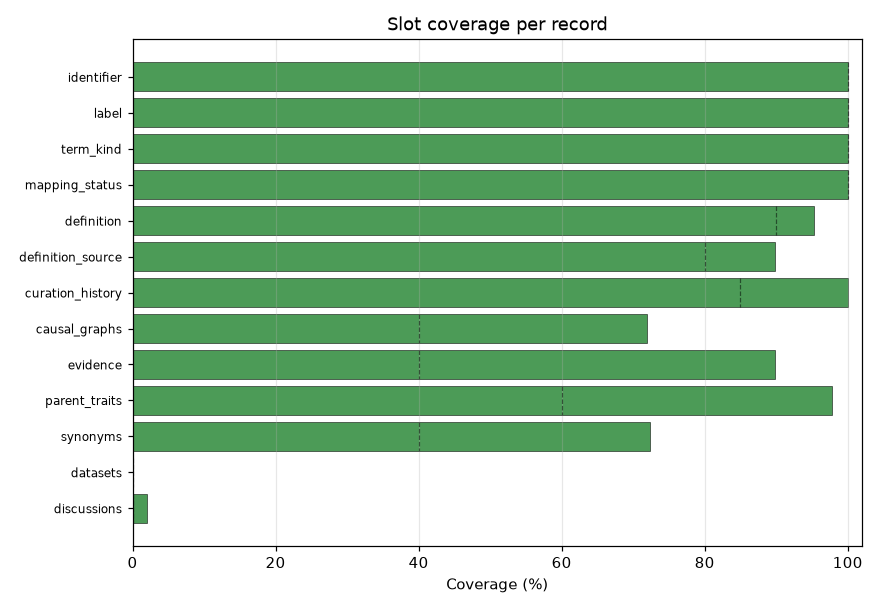
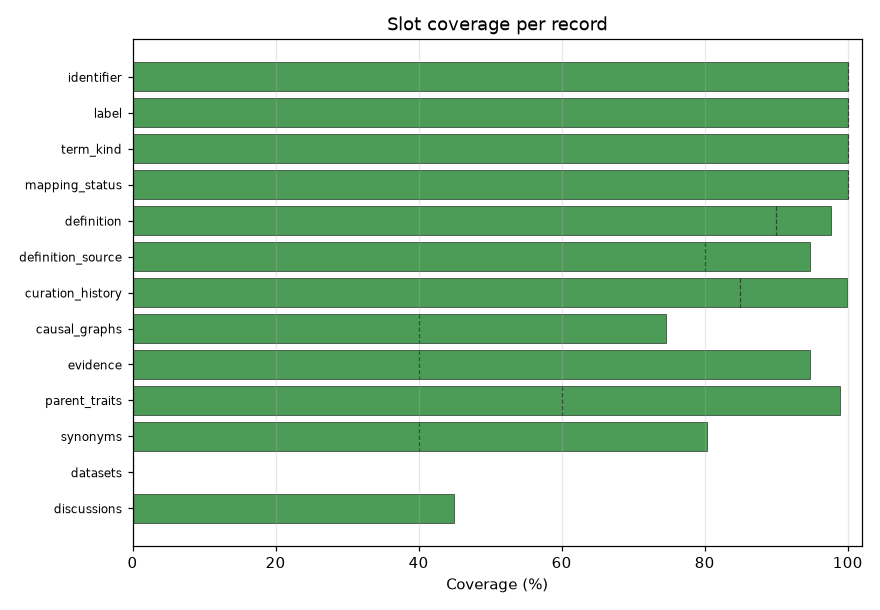
fix(web): refresh shared discussion and QC navigation

diff --git a/app/discussions/index.html b/app/discussions/index.html
@@ -11,7 +11,8 @@
   header { padding: 1rem 1.25rem; border-bottom: 1px solid var(--line); }
   h1 { font-size: 1.25rem; margin: 0 0 .25rem; }
   .metrics { color: var(--muted); font-size: .85rem; }
-  .layout { display: grid; grid-template-columns: 240px 1fr; gap: 1.25rem; max-width: 1200px; margin: 1rem auto; padding: 0 1.25rem; }
+  .layout { display: grid; grid-template-columns: 240px minmax(0, 1fr); gap: 1.25rem; max-width: 1200px; margin: 1rem auto; padding: 0 1.25rem; }
+  main, .sidebar { min-width: 0; overflow-wrap: anywhere; }
   @media (max-width: 820px) { .layout { grid-template-columns: 1fr; } }
   .sidebar h3 { font-size: .8rem; text-transform: uppercase; color: var(--muted); margin: 1rem 0 .35rem; }
   .facet label { display: block; font-size: .85rem; padding: .1rem 0; cursor: pointer; }
@@ -27,40 +28,75 @@
   a { color: var(--accent); text-decoration: none; }
   a:hover { text-decoration: underline; }
   .empty { color: var(--muted); padding: 2rem; text-align: center; }
+  button { font: inherit; padding: .4rem .6rem; cursor: pointer; }
+  a:focus-visible, button:focus-visible, input:focus-visible { outline: 3px solid #0969da; outline-offset: 3px; }
+  .skip-link { position: absolute; top: -5rem; left: 1rem; background: var(--bg); padding: .6rem; }
+  .skip-link:focus { top: .5rem; }
 </style>
 </head>
 <body>
+<a class="skip-link" href="#main-content">Skip to discussions</a>
 <header>
+  <nav aria-label="Project navigation"><a href="https://culturebotai.github.io/mechs/">All Mech projects</a></nav>
   <h1 id="title">Knowledge gaps &amp; discussions</h1>
   <div class="metrics" id="metrics"></div>
 </header>
 <div class="layout">
   <div class="sidebar">
-    <input id="q" type="search" placeholder="Search prompts, sources, evidence…" autocomplete="off">
+    <label for="q">Search discussions</label>
+    <input id="q" type="search" placeholder="Search prompts, sources, evidence…" autocomplete="off" disabled>
+    <button type="button" id="clear-filters" disabled>Clear search and filters</button>
     <div id="facets"></div>
   </div>
-  <main>
-    <div class="count" id="count"></div>
+  <main id="main-content" tabindex="-1">
+    <noscript>Enable JavaScript to search discussions, or use the project directory to find the source records.</noscript>
+    <div class="count" id="count" role="status" aria-live="polite" aria-atomic="true">Loading discussions…</div>
     <div id="results"></div>
   </main>
 </div>
 <script src="data.js"></script>
 <script>
 (function () {
-  var DATA = window.searchData || [];
-  var METRICS = window.searchMetrics || {};
+  function loadError() {
+    document.getElementById("count").textContent = "Discussions could not be loaded.";
+    document.getElementById("metrics").textContent = "Discussion counts unavailable";
+    document.getElementById("q").disabled = true;
+    document.getElementById("clear-filters").disabled = true;
+    document.getElementById("facets").replaceChildren();
+    var host = document.getElementById("results");
+    host.replaceChildren();
+    var retry = document.createElement("button");
+    retry.type = "button";
+    retry.textContent = "Retry loading discussions";
+    retry.addEventListener("click", function () { window.location.reload(); });
+    host.appendChild(retry);
+  }
+  if (!Array.isArray(window.searchData) || !window.searchData.every(function (row) {
+    return row && typeof row === "object" && !Array.isArray(row) &&
+      ["attaches_to", "evidence_refs"].every(function (field) {
+        return row[field] == null || (Array.isArray(row[field]) && row[field].every(function (value) { return typeof value === "string"; }));
+      });
+  })) { loadError(); return; }
+  var DATA = window.searchData;
+  var METRICS = window.searchMetrics;
+  if (!METRICS || !["total_discussions", "total_knowledge_gaps", "total_source_entries"].every(function (field) {
+    return Number.isInteger(METRICS[field]) && METRICS[field] >= 0;
+  }) || METRICS.total_discussions !== DATA.length ||
+      METRICS.total_knowledge_gaps !== DATA.filter(function (row) { return row.is_gap === "Knowledge gap"; }).length ||
+      METRICS.total_source_entries > DATA.length ||
+      (DATA.length > 0 && METRICS.total_source_entries === 0)) { loadError(); return; }
   var REPO = window.repoName || "";
   var FACETS = ["kind", "status", "is_gap"];
   var active = {}; FACETS.forEach(function (f) { active[f] = new Set(); });
 
   document.getElementById("title").textContent = (REPO ? REPO + " — " : "") + "Knowledge gaps & discussions";
   document.getElementById("metrics").textContent =
-    (METRICS.total_discussions || 0) + " discussions · " +
-    (METRICS.total_knowledge_gaps || 0) + " knowledge gaps · " +
-    (METRICS.total_source_entries || 0) + " records";
+    METRICS.total_discussions + " discussions · " +
+    METRICS.total_knowledge_gaps + " knowledge gaps · " +
+    METRICS.total_source_entries + " records";
 
   function uniqCounts(field) {
-    var m = {}; DATA.forEach(function (r) { var v = r[field] || "—"; m[v] = (m[v] || 0) + 1; });
+    var m = Object.create(null); DATA.forEach(function (r) { var v = r[field] || "—"; m[v] = (m[v] || 0) + 1; });
     return m;
   }
   function renderFacets() {
@@ -70,10 +106,13 @@
       var h = document.createElement("div"); h.className = "facet";
       h.innerHTML = "<h3>" + f.replace("_", " ") + "</h3>";
       Object.keys(counts).sort().forEach(function (val) {
-        var id = f + "::" + val;
         var lbl = document.createElement("label");
-        lbl.innerHTML = '<input type="checkbox" data-f="' + f + '" data-v="' +
-          val.replace(/"/g, "&quot;") + '"> ' + val + " (" + counts[val] + ")";
+        var input = document.createElement("input");
+        input.type = "checkbox";
+        input.setAttribute("data-f", f);
+        input.setAttribute("data-v", val);
+        lbl.appendChild(input);
+        lbl.appendChild(document.createTextNode(" " + val + " (" + counts[val] + ")"));
         h.appendChild(lbl);
       });
       host.appendChild(h);
@@ -94,9 +133,13 @@
       .join(" ").toLowerCase();
     return q.toLowerCase().split(/\s+/).every(function (t) { return hay.indexOf(t) >= 0; });
   }
-  function esc(s) { return (s || "").replace(/&/g, "&amp;").replace(/</g, "&lt;").replace(/>/g, "&gt;"); }
+  function esc(s) { return String(s || "").replace(/&/g, "&amp;").replace(/</g, "&lt;").replace(/>/g, "&gt;").replace(/"/g, "&quot;").replace(/'/g, "&#39;"); }
+  function safeLink(value) {
+    try { return ["https:", "http:"].includes(new URL(value, document.baseURI).protocol); }
+    catch (error) { return false; }
+  }
   function card(r) {
-    var title = r.page_url ? '<a href="' + esc(r.page_url) + '">' + esc(r.prompt) + "</a>" : esc(r.prompt);
+    var title = r.page_url && safeLink(r.page_url) ? '<a href="' + esc(r.page_url) + '">' + esc(r.prompt) + "</a>" : esc(r.prompt);
     var refs = (r.evidence_refs || []).map(function (ref) {
       var m = /^PMID:(\d+)$/.exec(ref);
       return m ? '<a href="https://pubmed.ncbi.nlm.nih.gov/' + m[1] + '/">' + esc(ref) + "</a>" : esc(ref);
@@ -120,7 +163,18 @@
       hits.length ? hits.map(card).join("") : '<div class="empty">No discussions match.</div>';
   }
   document.getElementById("q").addEventListener("input", render);
-  renderFacets(); render();
+  document.getElementById("clear-filters").addEventListener("click", function () {
+    document.getElementById("q").value = "";
+    FACETS.forEach(function (field) { active[field].clear(); });
+    document.querySelectorAll('#facets input[type="checkbox"]').forEach(function (input) { input.checked = false; });
+    render();
+    document.getElementById("q").focus();
+  });
+  try {
+    renderFacets(); render();
+    document.getElementById("q").disabled = false;
+    document.getElementById("clear-filters").disabled = false;
+  } catch (error) { loadError(); }
 })();
 </script>
 </body>

diff --git a/dashboard/index.html b/dashboard/index.html
@@ -2,14 +2,17 @@
 <html lang="en">
 <head>
 <meta charset="utf-8">
+<meta name="viewport" content="width=device-width, initial-scale=1">
 <title>TraitMech — QC Dashboard</title>
 <style>
   body { font-family: -apple-system, BlinkMacSystemFont, 'Segoe UI', sans-serif;
          margin: 2em; color: #222; max-width: 1100px; }
   h1 { border-bottom: 2px solid #ddd; padding-bottom: 0.3em; }
   .meta { color: #666; font-size: 0.9em; margin-bottom: 1.5em; }
-  .stat-grid { display: flex; gap: 1.5em; margin: 1em 0 2em 0; }
-  .stat { flex: 1; padding: 1em; border-radius: 6px; background: #f6f8fa;
+  * { box-sizing: border-box; }
+  body { overflow-wrap: anywhere; }
+  .stat-grid { display: flex; flex-wrap: wrap; gap: 1.5em; margin: 1em 0 2em 0; }
+  .stat { flex: 1 1 12em; min-width: 0; padding: 1em; border-radius: 6px; background: #f6f8fa;
           border: 1px solid #d0d7de; }
   .stat .label { color: #666; font-size: 0.85em; text-transform: uppercase;
                  letter-spacing: 0.05em; }
@@ -30,19 +33,27 @@
   .badge.fail { background: #ffebe9; color: #cf222e; }
   img { max-width: 100%; margin-top: 1em; border: 1px solid #e5e7eb;
         border-radius: 4px; }
+  .table-scroll { max-width: 100%; overflow-x: auto; }
+  .table-scroll table { min-width: 36em; }
+  a:focus-visible, .table-scroll:focus-visible { outline: 3px solid #0969da; outline-offset: 3px; }
+  .skip-link { position: absolute; top: -5em; left: 1em; background: white; padding: .6em; }
+  .skip-link:focus { top: .5em; }
+  @media (max-width: 40em) { body { margin: 1em; } }
 </style>
 </head>
 <body>
-
+<a class="skip-link" href="#main-content">Skip to dashboard</a>
+<nav aria-label="Project navigation"><a href="https://culturebotai.github.io/mechs/">All Mech projects</a></nav>
+<main id="main-content" tabindex="-1">
 <h1>TraitMech — QC Dashboard</h1>
-<div class="meta">Latest curation 2026-09-08T03:30:00+00:00
-  (from 491 of
-  491 records)</div>
+<div class="meta">Latest curation 2026-10-03T05:46:02+00:00
+  (from 959 of
+  960 records)</div>
 
 <div class="stat-grid">
   <div class="stat">
     <div class="label">Records</div>
-    <div class="value">491</div>
+    <div class="value">960</div>
   </div>
   <div class="stat">
     <div class="label">Slots tracked</div>
@@ -50,7 +61,7 @@
   </div>
   <div class="stat">
     <div class="label">Overall coverage</div>
-    <div class="value">78.4%</div>
+    <div class="value">83.5%</div>
   </div>
   <div class="stat">
     <div class="label">FAIL slots</div>
@@ -63,20 +74,22 @@
 <img src="coverage.png" alt="Slot coverage chart">
 
 <h2>Per-slot detail</h2>
+<div class="table-scroll" role="region" tabindex="0" aria-label="Per-slot coverage">
 <table>
+  <caption>Slot population, coverage and quality thresholds</caption>
   <thead>
     <tr>
-      <th>Slot</th>
-      <th class="right">Populated</th>
-      <th class="right">Coverage</th>
-      <th class="right">Threshold</th>
-      <th>Status</th>
+      <th scope="col">Slot</th>
+      <th scope="col" class="right">Populated</th>
+      <th scope="col" class="right">Coverage</th>
+      <th scope="col" class="right">Threshold</th>
+      <th scope="col">Status</th>
     </tr>
   </thead>
   <tbody>
     <tr>
       <td><code>identifier</code></td>
-      <td class="right">491 / 491</td>
+      <td class="right">960 / 960</td>
       <td class="right">100.0%</td>
       <td class="right">100%</td>
       <td>
@@ -85,7 +98,7 @@
     </tr>
     <tr>
       <td><code>label</code></td>
-      <td class="right">491 / 491</td>
+      <td class="right">960 / 960</td>
       <td class="right">100.0%</td>
       <td class="right">100%</td>
       <td>
@@ -94,7 +107,7 @@
     </tr>
     <tr>
       <td><code>term_kind</code></td>
-      <td class="right">491 / 491</td>
+      <td class="right">960 / 960</td>
       <td class="right">100.0%</td>
       <td class="right">100%</td>
       <td>
@@ -103,7 +116,7 @@
     </tr>
     <tr>
       <td><code>mapping_status</code></td>
-      <td class="right">491 / 491</td>
+      <td class="right">960 / 960</td>
       <td class="right">100.0%</td>
       <td class="right">100%</td>
       <td>
@@ -112,8 +125,8 @@
     </tr>
     <tr>
       <td><code>definition</code></td>
-      <td class="right">468 / 491</td>
-      <td class="right">95.3%</td>
+      <td class="right">937 / 960</td>
+      <td class="right">97.6%</td>
       <td class="right">90%</td>
       <td>
         <span class="badge pass">PASS</span>
@@ -121,8 +134,8 @@
     </tr>
     <tr>
       <td><code>definition_source</code></td>
-      <td class="right">441 / 491</td>
-      <td class="right">89.8%</td>
+      <td class="right">910 / 960</td>
+      <td class="right">94.8%</td>
       <td class="right">80%</td>
       <td>
         <span class="badge pass">PASS</span>
@@ -130,8 +143,8 @@
     </tr>
     <tr>
       <td><code>curation_history</code></td>
-      <td class="right">491 / 491</td>
-      <td class="right">100.0%</td>
+      <td class="right">959 / 960</td>
+      <td class="right">99.9%</td>
       <td class="right">85%</td>
       <td>
         <span class="badge pass">PASS</span>
@@ -139,8 +152,8 @@
     </tr>
     <tr>
       <td><code>causal_graphs</code></td>
-      <td class="right">353 / 491</td>
-      <td class="right">71.9%</td>
+      <td class="right">716 / 960</td>
+      <td class="right">74.6%</td>
       <td class="right">40%</td>
       <td>
         <span class="badge pass">PASS</span>
@@ -148,8 +161,8 @@
     </tr>
     <tr>
       <td><code>evidence</code></td>
-      <td class="right">441 / 491</td>
-      <td class="right">89.8%</td>
+      <td class="right">910 / 960</td>
+      <td class="right">94.8%</td>
       <td class="right">40%</td>
       <td>
         <span class="badge pass">PASS</span>
@@ -157,8 +170,8 @@
     </tr>
     <tr>
       <td><code>parent_traits</code></td>
-      <td class="right">480 / 491</td>
-      <td class="right">97.8%</td>
+      <td class="right">949 / 960</td>
+      <td class="right">98.9%</td>
       <td class="right">60%</td>
       <td>
         <span class="badge pass">PASS</span>
@@ -166,8 +179,8 @@
     </tr>
     <tr>
       <td><code>synonyms</code></td>
-      <td class="right">355 / 491</td>
-      <td class="right">72.3%</td>
+      <td class="right">771 / 960</td>
+      <td class="right">80.3%</td>
       <td class="right">40%</td>
       <td>
         <span class="badge pass">PASS</span>
@@ -175,7 +188,7 @@
     </tr>
     <tr>
       <td><code>datasets</code></td>
-      <td class="right">0 / 491</td>
+      <td class="right">0 / 960</td>
       <td class="right">0.0%</td>
       <td class="right">0%</td>
       <td>
@@ -184,8 +197,8 @@
     </tr>
     <tr>
       <td><code>discussions</code></td>
-      <td class="right">10 / 491</td>
-      <td class="right">2.0%</td>
+      <td class="right">431 / 960</td>
+      <td class="right">44.9%</td>
       <td class="right">0%</td>
       <td>
         <span class="badge pass">PASS</span>
@@ -193,6 +206,7 @@
     </tr>
   </tbody>
 </table>
-
+</div>
+</main>
 </body>
 </html>
